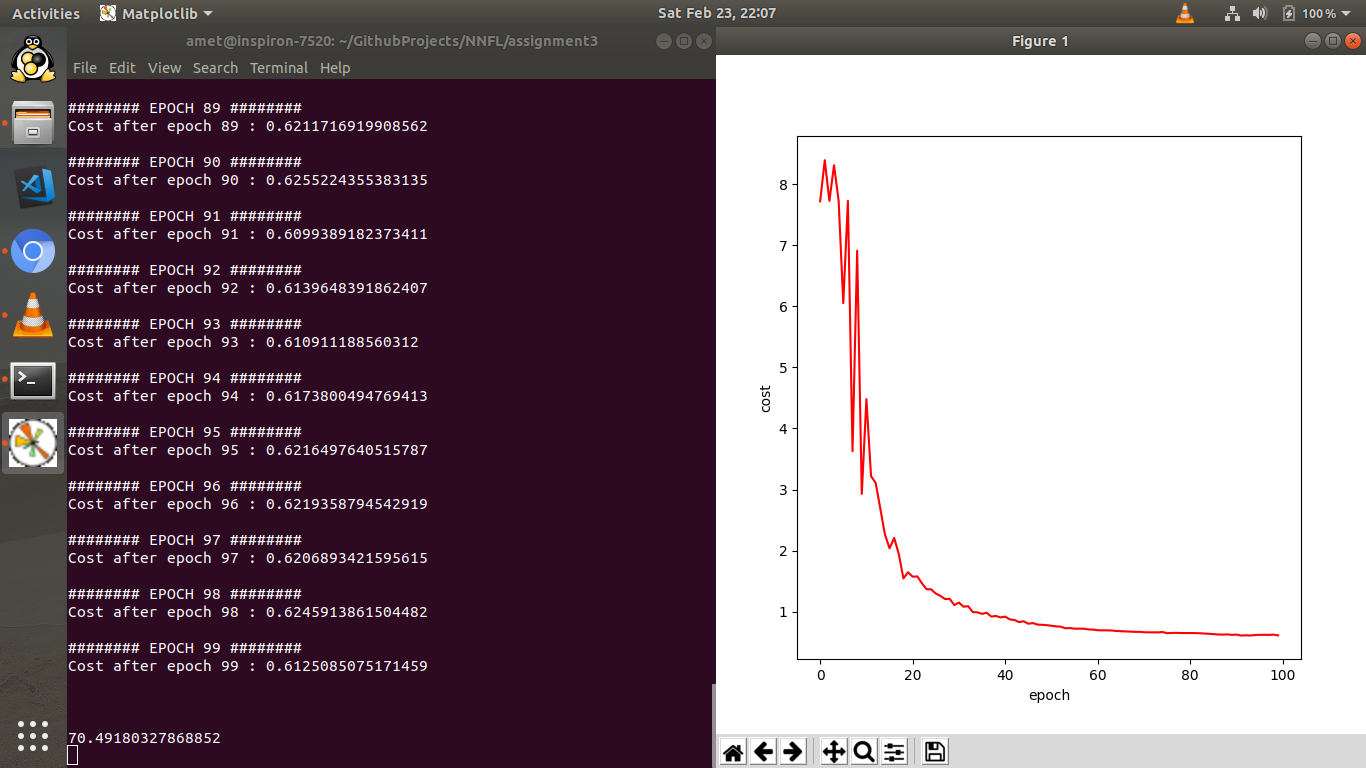
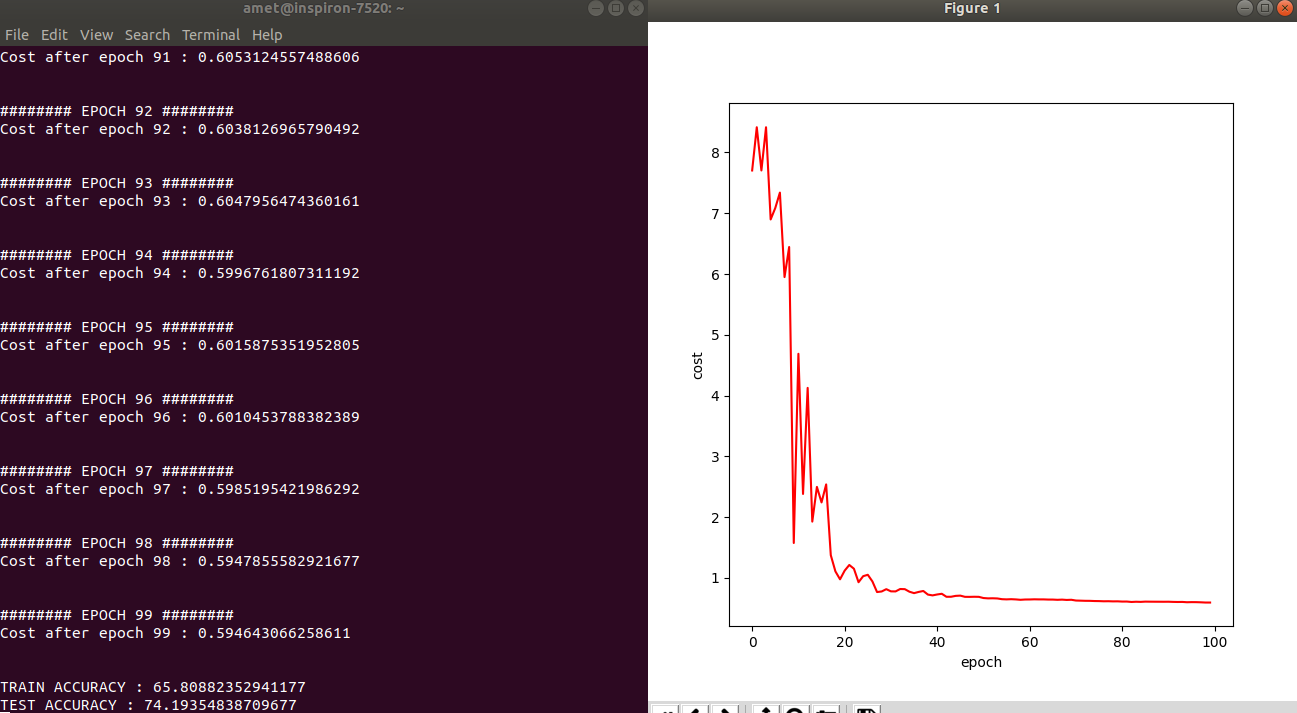
assignment 3 functional done

diff --git a/assignment3/our_code.py b/assignment3/our_code.py
@@ -122,7 +122,6 @@ def update_parameters(parameters,grads,learning_rate) :
     return parameters
 
 def prediction(X,parameters) :
-
     L = len(parameters) // 2
     A_prev = X
 
@@ -177,7 +176,7 @@ def prepare_minibatch(X,y,minibatch_size) :
 
     return batches
 
-def model(X,y,layer_dims,split=0.8,epochs=10,learning_rate=0.001,minibatch=False) :
+def model(X,y,layer_dims,split=0.8,epochs=100,learning_rate=0.001,minibatch=False,verbose=True) :
     X_train,y_train,X_test,y_test = train_test_split(X,y,split)
     
     if minibatch :
@@ -186,9 +185,9 @@ def model(X,y,layer_dims,split=0.8,epochs=10,learning_rate=0.001,minibatch=False
     parameters = initialize_parameters(layer_dims)
     
     epoch_cost = []
-
     for epoch in range(epochs) :
-        print("######## EPOCH {} ########".format(epoch))
+        if verbose and epoch%10==0 :
+            print("######## EPOCH {} ########".format(epoch+1))
         cost = 0
         batches = [(X_train,y_train)]
         if minibatch :
@@ -199,33 +198,33 @@ def model(X,y,layer_dims,split=0.8,epochs=10,learning_rate=0.001,minibatch=False
             cost += compute_cost(AL,y_batch)
             grads = L_model_backward(AL,y_batch,caches)
             parameters = update_parameters(parameters,grads,learning_rate)
-        print("Cost after epoch {} : {}\n\n".format(epoch,cost))
+        if verbose and epoch%10==0 :
+            print("Cost after epoch {} : {}\n\n".format(epoch+1,cost))
         epoch_cost.append(cost)
     
-    y_pred = prediction(X_test,parameters)
-    accu = accuracy(y_pred,y_test)
-    return accu,epoch_cost
+    y_pred_test  = prediction(X_test,parameters)
+    y_pred_train = prediction(X_train,parameters)
+    accu_test = accuracy(y_pred_test,y_test)
+    accu_train = accuracy(y_pred_train,y_train)
+    return accu_test,accu_train,epoch_cost
 
 def main() :
     df = pd.read_csv("heart.csv").values
-    
     ### Preprocessing - No scaling of data ###
     idx = np.random.permutation(df.shape[0])
     df = df[idx]
     y  = df[:,13]
     y  = y.reshape(1,-1)
     X  = df[:,:13].T
-    
     ### Running the Model ###
     layer_dims = [13,45,45,45,45,1]
-    accu,cost = model(X,y,layer_dims,0.8,100,0.001,False)
-    
-    print("ACCURACY : {}".format(accu))
-    plt.plot(cost,'r')
+    accu_test,accu_train,cost = model(X,y,layer_dims)
+    print("TRAIN ACCURACY : {}".format(accu_train))
+    print("TEST ACCURACY : {}".format(accu_test))
+    plt.plot(cost,'b')
     plt.xlabel("epoch")
     plt.ylabel("cost")
     plt.show()
-    
 
 if __name__=="__main__":
     main()
